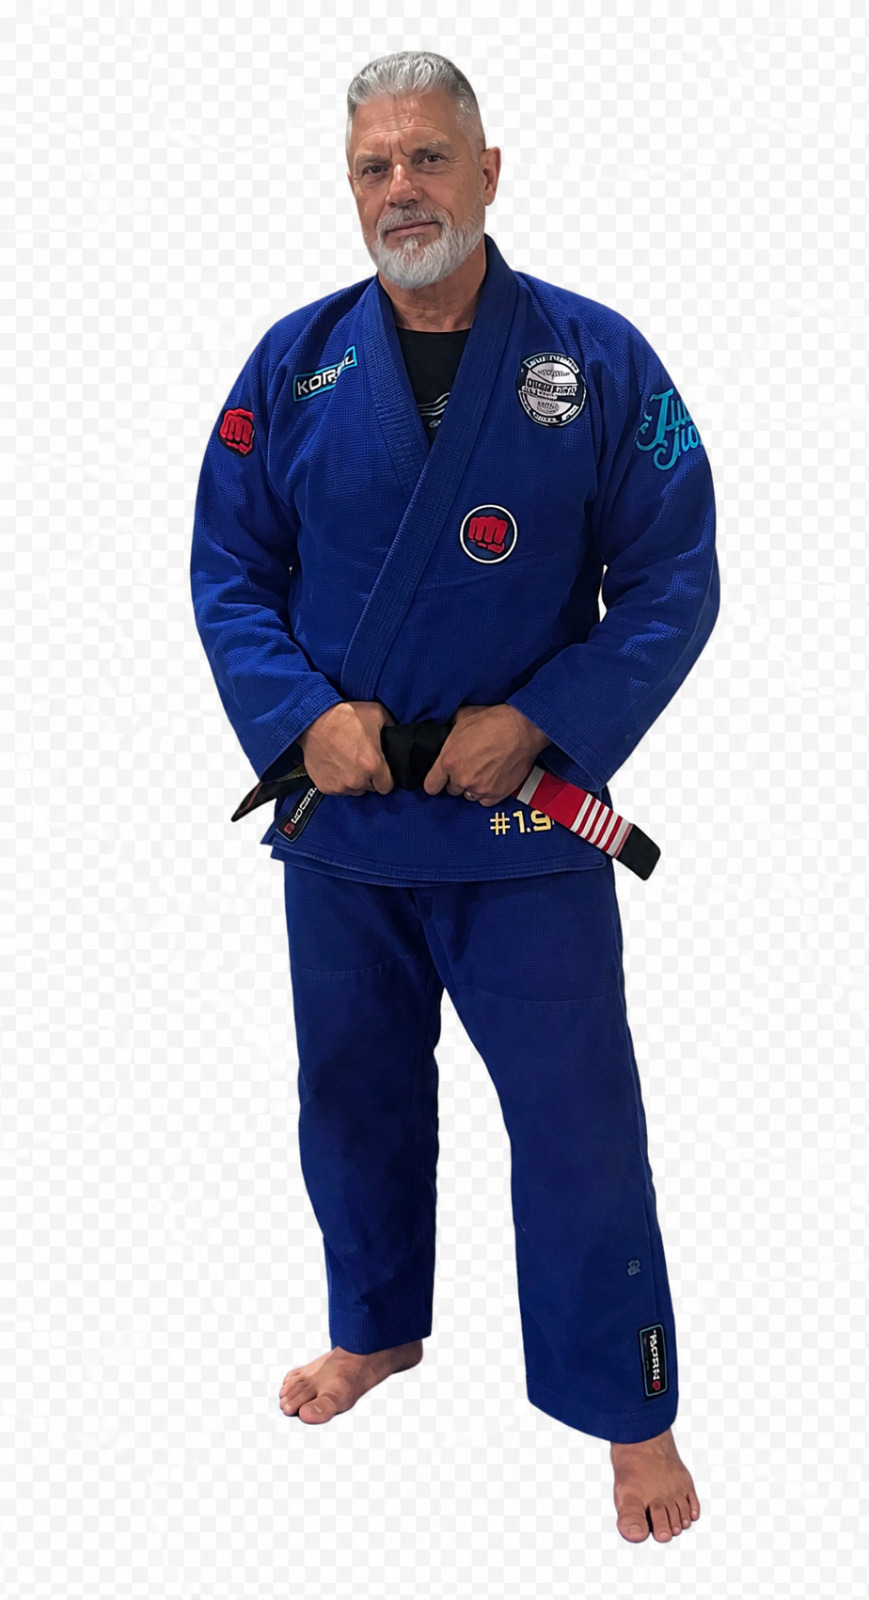
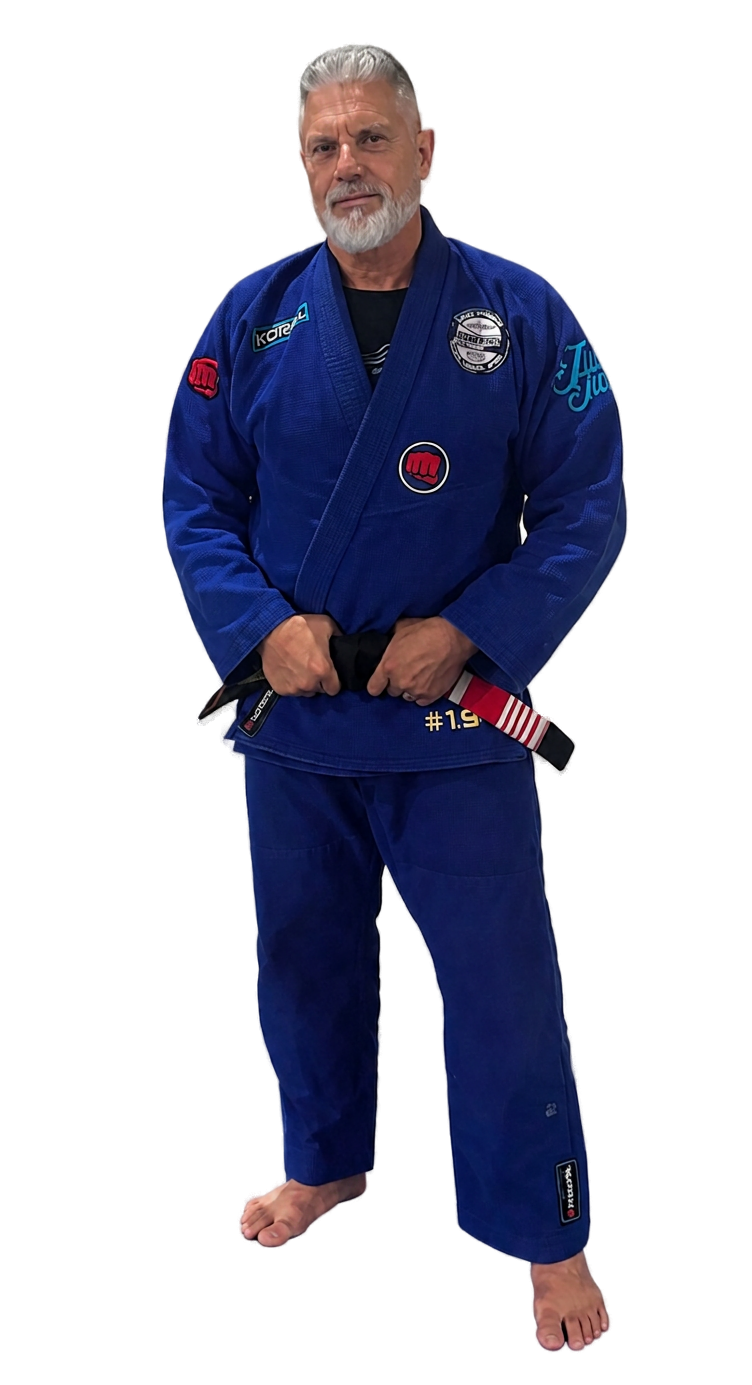
Added professors correct photos

diff --git a/app/globals.css b/app/globals.css
@@ -1122,19 +1122,19 @@ body {
   justify-content: center;
   align-items: flex-end;
   padding-top: 24px;
-  min-height: 240px;
-  background: linear-gradient(180deg, #1f1f1f 0%, #141414 100%);
-  mix-blend-mode: normal;
+  min-height: 320px;
+  background: transparent;          /* sem retângulo claro atrás */
 }
 
 .professor-photo {
   object-fit: contain;
   object-position: bottom;
-  max-height: 240px;
+  max-height: 360px;
   width: auto;
-  filter: drop-shadow(0 8px 24px rgba(0,0,0,0.6));
   background: transparent;
+  filter: drop-shadow(0 14px 28px rgba(0, 0, 0, 0.6));
 }
+
 
 
 

diff --git a/app/page.tsx b/app/page.tsx
@@ -7,8 +7,8 @@ const professores = [
     nome: "Prof. Dr. Tácito Pessoa de Souza Junior",
     cargo: "Coordenador e Professor",
     faixa: "Faixa Preta 4º Grau",
-    corFaixa: "#111",
-    corGrau: "#FFD700",
+    corFaixa: "#000000",
+    corGrau: "#FF2200",
     foto: "/tacito.png",
     descricao:
       "Doutor e Mestre em Ciências do Esporte pela UNICAMP e Pós-Doutor em Exercise Science pela Appalachian State University (EUA). Professor Associado do Departamento de Educação Física da UFPR e docente permanente do Programa de Pós-Graduação (Mestrado e Doutorado). Pesquisador nas áreas de Bioquímica do Exercício, Suplementação Nutricional e Treinamento de Força. Idealizador e coordenador do projeto \"Jiu-Jitsu na Universidade\" há mais de 14 anos, já formando mais de 100 atletas.",